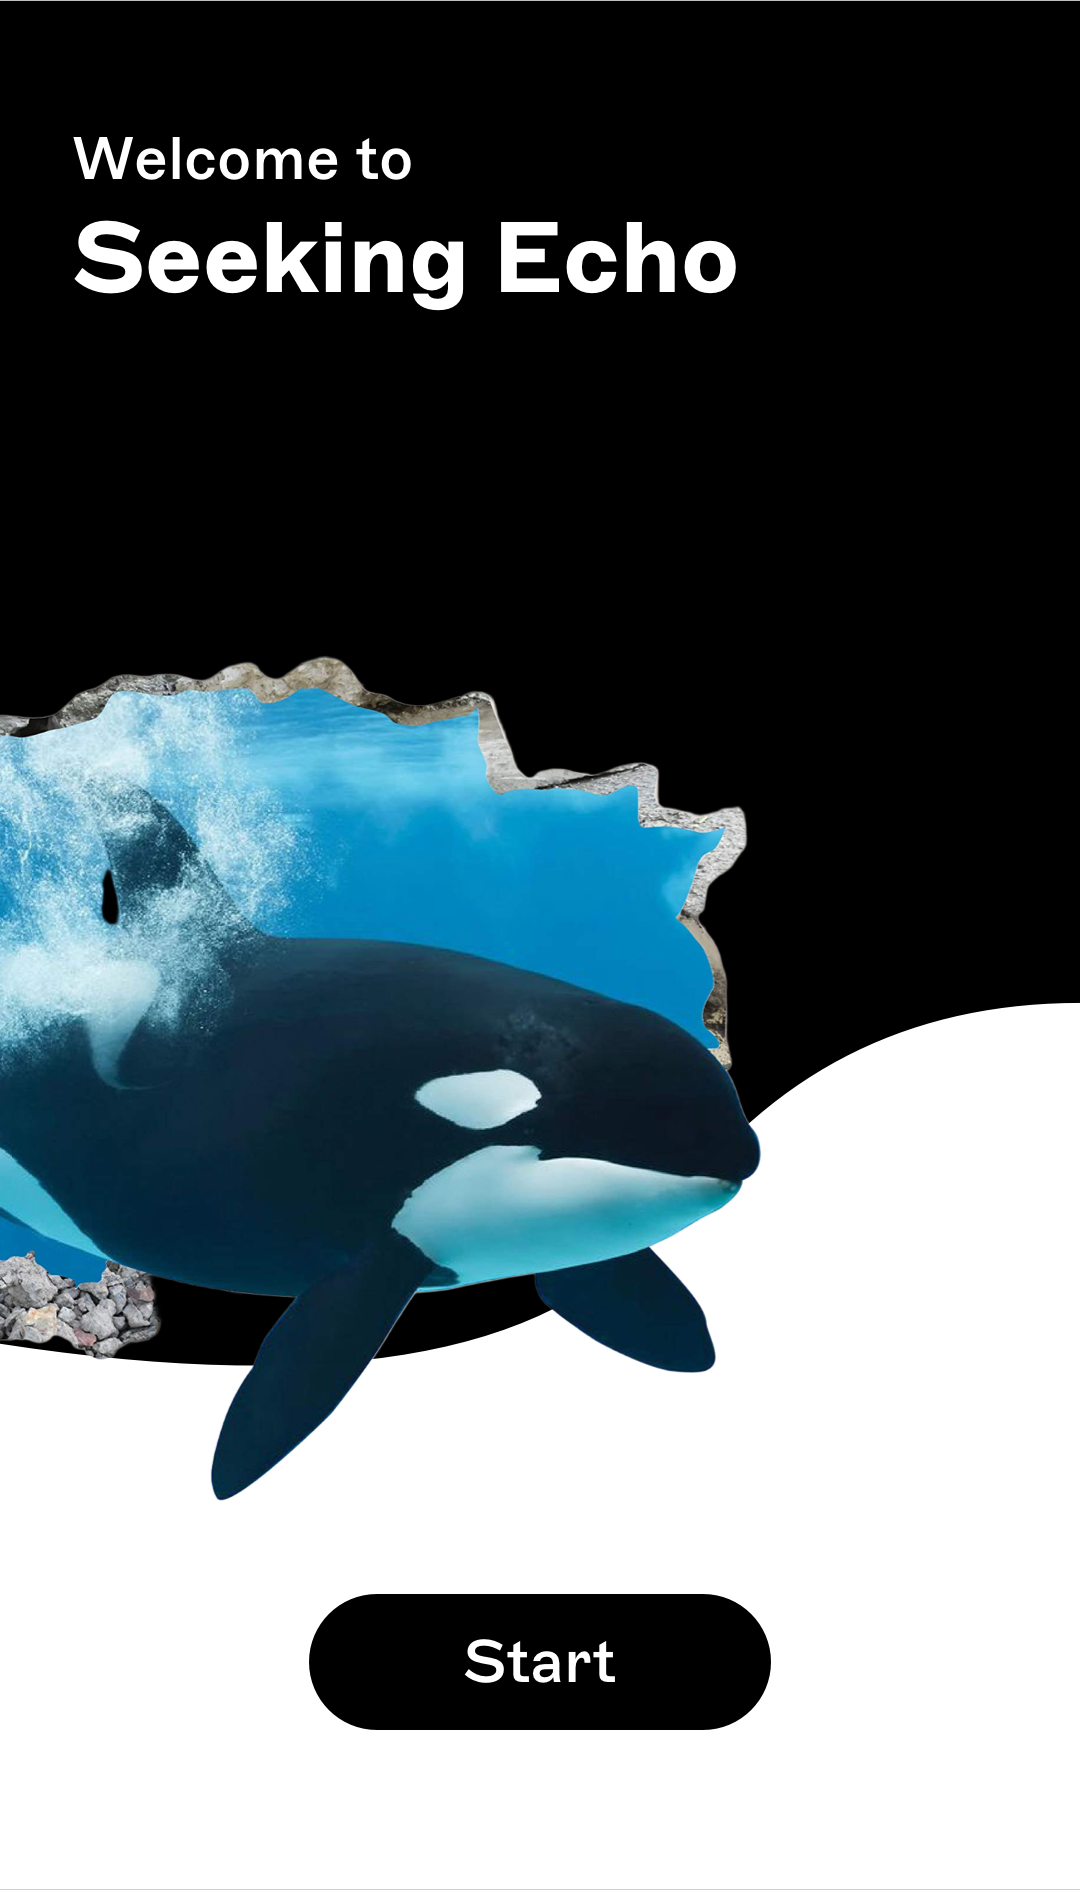
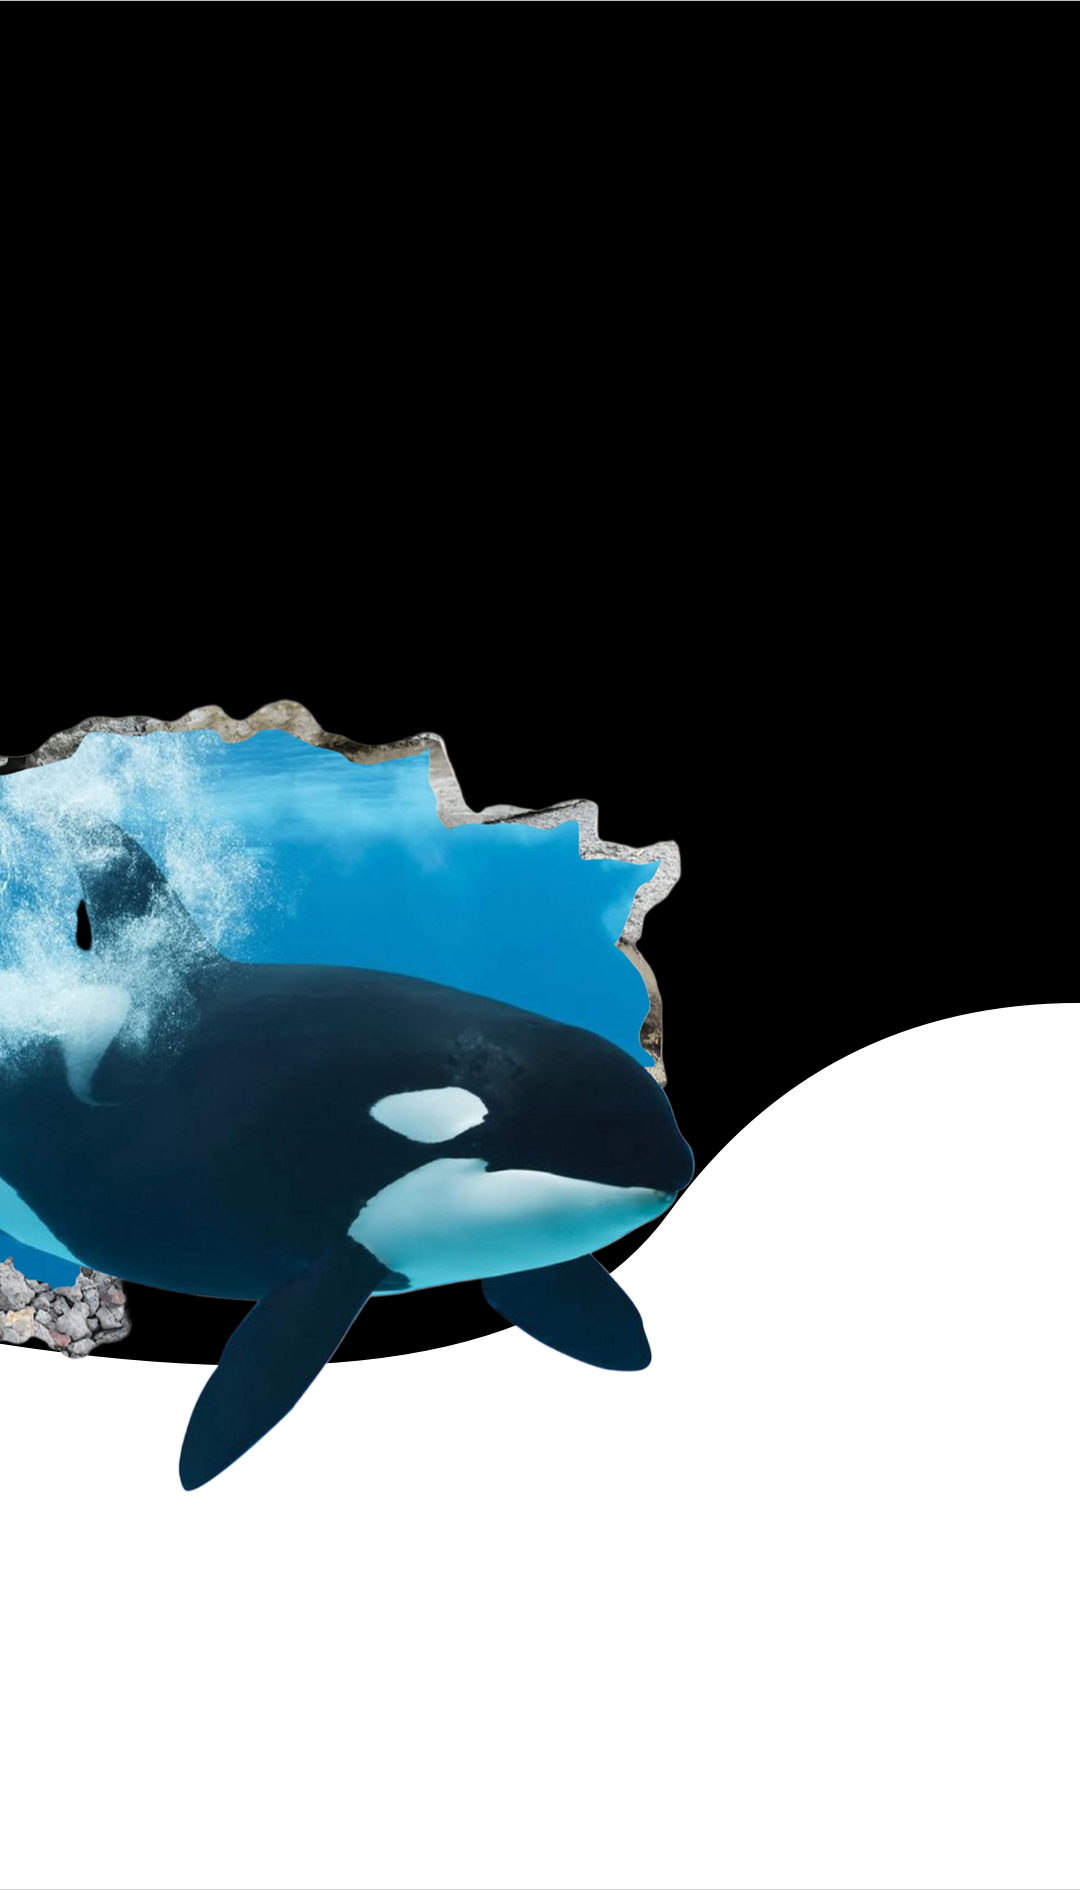
added propper title screen

diff --git a/src/app/page.tsx b/src/app/page.tsx
@@ -1,116 +1,5 @@
-'use client';
-
-import { useState, useEffect } from 'react';
-import MapContainer from '@/components/Map/MapContainer';
-import IndividualFilter from '@/components/Filters/IndividualFilter';
-import Timeline from '@/components/Timeline/Timeline';
-import { WhaleSighting } from '@/types/sighting';
-import { loadAllSightings } from '@/services/utils/yearlyDataLoader';
-import { findPositionsForDate } from '@/utils/positionUtils';
+import { redirect } from 'next/navigation';
 
 export default function Home() {
-  const [sightings, setSightings] = useState<WhaleSighting[]>([]);
-  const [selectedDate, setSelectedDate] = useState<Date | undefined>();
-  const [selectedIndividuals, setSelectedIndividuals] = useState<string[]>([]);
-  const [loading, setLoading] = useState(true);
-  const [isPlaying, setIsPlaying] = useState(false);
-  const [isEstimated, setIsEstimated] = useState(false);
-
-  useEffect(() => {
-    const fetchData = async () => {
-      const data = await loadAllSightings();
-      setSightings(data);
-      setLoading(false);
-    };
-
-    fetchData();
-  }, []);
-
-  // Start autoplay when selection changes
-  useEffect(() => {
-    if (selectedIndividuals.length > 0) {
-      setIsPlaying(true);
-    }
-  }, [selectedIndividuals]);
-
-  // Handle click anywhere to toggle play/pause
-  const handleGlobalClick = () => {
-    if (selectedIndividuals.length > 0) {
-      setIsPlaying(prev => !prev);
-    }
-  };
-
-  // Update the estimation status when positions change
-  useEffect(() => {
-    if (!selectedDate) return;
-    const positions = findPositionsForDate(selectedDate, sightings, selectedIndividuals);
-    setIsEstimated(positions.some(p => !p.isActualSighting));
-  }, [selectedDate, sightings, selectedIndividuals]);
-
-  if (loading) {
-    return <div>Loading...</div>;
-  }
-
-  // Add console.log to check if sightings data is available
-  console.log('Sightings data:', sightings);
-
-  return (
-    <div 
-      onClick={handleGlobalClick}
-      className="map-page"
-    >
-      {/* Map Base Layer */}
-      <div style={{ position: 'absolute', top: 0, left: 0, right: 0, bottom: 0 }}>
-        <MapContainer 
-          sightings={sightings}
-          selectedDate={selectedDate}
-          selectedIndividuals={selectedIndividuals}
-          showPaths={true}
-          isPlaying={isPlaying}
-          onDateChange={setSelectedDate}
-        />
-      </div>
-
-      {/* UI Overlay Layer */}
-      <div 
-        style={{ position: 'absolute', inset: 0, pointerEvents: 'none' }}
-        onClick={e => e.stopPropagation()} // Prevent clicks on UI from triggering play/pause
-      >
-        {/* Whale Selector - top right */}
-        <div style={{ 
-          position: 'absolute', 
-          top: '1rem', 
-          right: '1rem', 
-          pointerEvents: 'auto',
-          zIndex: 1000
-        }}>
-          {/* Add debug render to verify component is being rendered */}
-          {/* <div className="text-white">Debug: Whale Selector</div> */}
-          <IndividualFilter 
-            sightings={sightings}
-            onFilterChange={setSelectedIndividuals}
-          />
-        </div>
-
-        {/* Timeline - bottom center */}
-        <div style={{ 
-          position: 'absolute', 
-          bottom: '2rem', 
-          left: '50%', 
-          transform: 'translateX(-50%)',
-          width: '80%',
-          maxWidth: '600px',
-          pointerEvents: 'auto',
-          zIndex: 1000
-        }}>
-          <Timeline 
-            sightings={sightings}
-            onDateChange={setSelectedDate}
-            isPlaying={isPlaying}
-            isEstimated={isEstimated}
-          />
-        </div>
-      </div>
-    </div>
-  );
+  redirect('/intro');
 } 

diff --git a/src/app/intro/page.tsx b/src/app/intro/page.tsx
@@ -2,50 +2,75 @@
 
 import { useRouter } from 'next/navigation';
 import Image from 'next/image';
-import Link from 'next/link';
 
 export default function IntroPage() {
   const router = useRouter();
 
   return (
-    <main className="min-h-screen bg-black relative overflow-hidden">
+    <div className="h-screen w-screen relative overflow-hidden intro-content">
       {/* Background Image - lowest layer */}
-      <div className="fixed inset-0" style={{ zIndex: 0, position: 'relative' }}>
+      <div className="absolute inset-0" style={{ zIndex: -1 }}>
         <Image
-          src="/images/orca-splash.png"
-          alt="Orca splash"
+          src="/images/background.png"
+          alt="Background"
           fill
-          className="object-cover"
           priority
-          sizes="100vw"
+          style={{ objectFit: 'cover', zIndex: -1 }}
           quality={100}
         />
       </div>
 
+      {/* Dark overlay - middle layer */}
+      {/* <div className="absolute inset-0 bg-black/50 z-[5]" /> */}
+
       {/* Content Container - top layer */}
-      <div className="relative min-h-screen flex flex-col items-center justify-between p-8" style={{ zIndex: 10 }}>
-        {/* Title Section */}
-        <div className="pt-12 text-center">
-          <h1 className="text-white text-4xl font-bold mb-2">
+      <div className="relative h-full" style={{ zIndex: 1 }}>
+        {/* Title section at top */}
+        <div style={{ 
+          paddingTop: '8rem',
+          paddingLeft: '2rem',
+          color: 'white'
+        }}>
+          <p className="text-5xl font-bold">
             Welcome to
+          </p>
+          <h1 className="text-10xl font-bold mt-2">
+            Seeking Echos
           </h1>
-          <h2 className="text-white text-6xl font-bold">
-            Seeking Echo
-          </h2>
         </div>
 
-        {/* Button Section */}
-        <div className="pb-16">
-          <Link href="/map">
-            <button
-              className="bg-black/80 text-white px-12 py-3 rounded-full text-xl 
-                       font-semibold hover:scale-105 transition-transform"
-            >
-              Start
-            </button>
-          </Link>
+        {/* Button container at bottom */}
+        <div style={{ 
+          position: 'absolute',
+          bottom: '4rem',
+          left: '50%',
+          transform: 'translateX(-50%)',
+          zIndex: 2
+        }}>
+          <button
+            onClick={() => router.push('/map')}
+            style={{
+              backgroundColor: 'black',
+              color: 'white',
+              fontSize: '1.5rem',
+              padding: '1rem 4rem',
+              borderRadius: '9999px',
+              transition: 'all 0.3s',
+              cursor: 'pointer'
+            }}
+            onMouseOver={(e) => {
+              e.currentTarget.style.backgroundColor = 'rgba(0, 0, 0, 0.8)';
+              e.currentTarget.style.transform = 'scale(1.05)';
+            }}
+            onMouseOut={(e) => {
+              e.currentTarget.style.backgroundColor = 'black';
+              e.currentTarget.style.transform = 'scale(1)';
+            }}
+          >
+            Start
+          </button>
         </div>
       </div>
-    </main>
+    </div>
   );
 } 

diff --git a/src/app/map/page.tsx b/src/app/map/page.tsx
@@ -6,6 +6,7 @@ import IndividualFilter from '@/components/Filters/IndividualFilter';
 import Timeline from '@/components/Timeline/Timeline';
 import { WhaleSighting } from '@/types/sighting';
 import { loadAllSightings } from '@/services/utils/yearlyDataLoader';
+import { findPositionsForDate } from '@/utils/positionUtils';
 
 export default function MapPage() {
   const [sightings, setSightings] = useState<WhaleSighting[]>([]);
@@ -13,6 +14,7 @@ export default function MapPage() {
   const [selectedIndividuals, setSelectedIndividuals] = useState<string[]>([]);
   const [loading, setLoading] = useState(true);
   const [isPlaying, setIsPlaying] = useState(false);
+  const [isEstimated, setIsEstimated] = useState(false);
 
   useEffect(() => {
     const fetchData = async () => {
@@ -38,6 +40,13 @@ export default function MapPage() {
     }
   };
 
+  // Update the estimation status when positions change
+  useEffect(() => {
+    if (!selectedDate) return;
+    const positions = findPositionsForDate(selectedDate, sightings, selectedIndividuals);
+    setIsEstimated(positions.some(p => !p.isActualSighting));
+  }, [selectedDate, sightings, selectedIndividuals]);
+
   if (loading) {
     return <div>Loading...</div>;
   }
@@ -45,10 +54,10 @@ export default function MapPage() {
   return (
     <div 
       onClick={handleGlobalClick}
-      className="w-screen h-screen relative overflow-hidden"
+      className="map-page"
     >
       {/* Map Base Layer */}
-      <div className="absolute inset-0">
+      <div style={{ position: 'absolute', top: 0, left: 0, right: 0, bottom: 0 }}>
         <MapContainer 
           sightings={sightings}
           selectedDate={selectedDate}
@@ -61,11 +70,17 @@ export default function MapPage() {
 
       {/* UI Overlay Layer */}
       <div 
-        className="absolute inset-0 pointer-events-none"
-        onClick={e => e.stopPropagation()}
+        style={{ position: 'absolute', inset: 0, pointerEvents: 'none' }}
+        onClick={e => e.stopPropagation()} // Prevent clicks on UI from triggering play/pause
       >
         {/* Whale Selector - top right */}
-        <div className="absolute top-4 right-4 pointer-events-auto z-10">
+        <div style={{ 
+          position: 'absolute', 
+          top: '1rem', 
+          right: '1rem', 
+          pointerEvents: 'auto',
+          zIndex: 1000
+        }}>
           <IndividualFilter 
             sightings={sightings}
             onFilterChange={setSelectedIndividuals}
@@ -73,11 +88,21 @@ export default function MapPage() {
         </div>
 
         {/* Timeline - bottom center */}
-        <div className="absolute bottom-8 left-1/2 -translate-x-1/2 w-4/5 max-w-2xl pointer-events-auto z-10">
+        <div style={{ 
+          position: 'absolute', 
+          bottom: '2rem', 
+          left: '50%', 
+          transform: 'translateX(-50%)',
+          width: '80%',
+          maxWidth: '600px',
+          pointerEvents: 'auto',
+          zIndex: 1000
+        }}>
           <Timeline 
             sightings={sightings}
             onDateChange={setSelectedDate}
             isPlaying={isPlaying}
+            isEstimated={isEstimated}
           />
         </div>
       </div>

diff --git a/src/app/globals.css b/src/app/globals.css
@@ -14,20 +14,20 @@
 
 /* Basic styles */
 :root {
-  --foreground-rgb: 0, 0, 0;
-  --background-rgb: 255, 255, 255;
+  --foreground-rgb: 255, 255, 255;
+  --background-rgb: 0, 0, 0;
 }
 
 html, body {
   width: 100vw;
   height: 100vh;
   overflow: hidden;
-  background: white;
+
 }
 
 body {
-  color: rgb(var(--foreground-rgb));
-  background: white;
+  color: white;
+  background: black;
   font-family: "Nunito", sans-serif;
   font-optical-sizing: auto;
   position: relative;
@@ -62,7 +62,7 @@ body {
 
 /* Style the marker labels */
 .marker-label {
-  background-color: rgba(255, 255, 255, 0.8);
+  background-color: rgba(9, 9, 9, 0.8);
   padding: 2px 6px;
   border-radius: 4px;
   border: 1px solid rgba(0, 0, 0, 0.2);
@@ -98,4 +98,18 @@ body {
 .font-nunito {
   font-family: "Nunito", sans-serif;
   font-optical-sizing: auto;
+}
+
+/* Add to your existing globals.css */
+.wave-pattern {
+  background-color: rgba(255, 255, 255, 0.1);
+  background-image: 
+    radial-gradient(circle at 100% 150%, rgba(255, 255, 255, 0.1) 24%, transparent 25%),
+    radial-gradient(circle at 0 150%, rgba(255, 255, 255, 0.1) 24%, transparent 25%);
+  background-size: 20px 40px;
+}
+
+/* Add a new class for the intro page content */
+.intro-content {
+  isolation: isolate;
 } 
